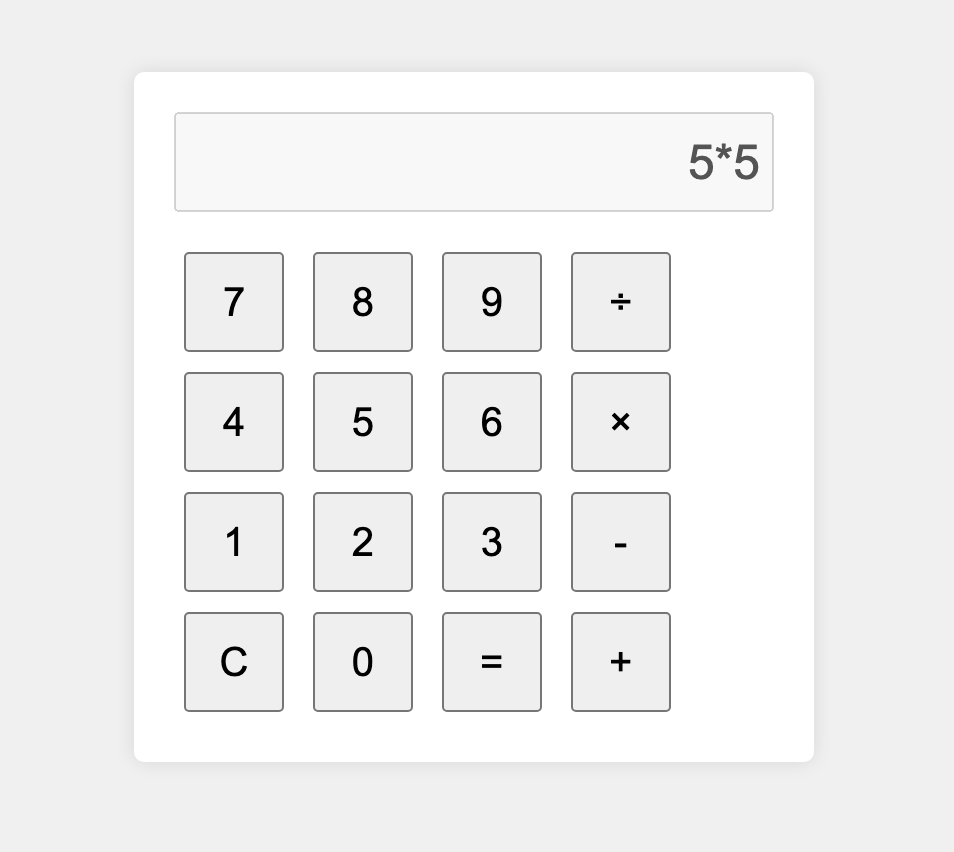
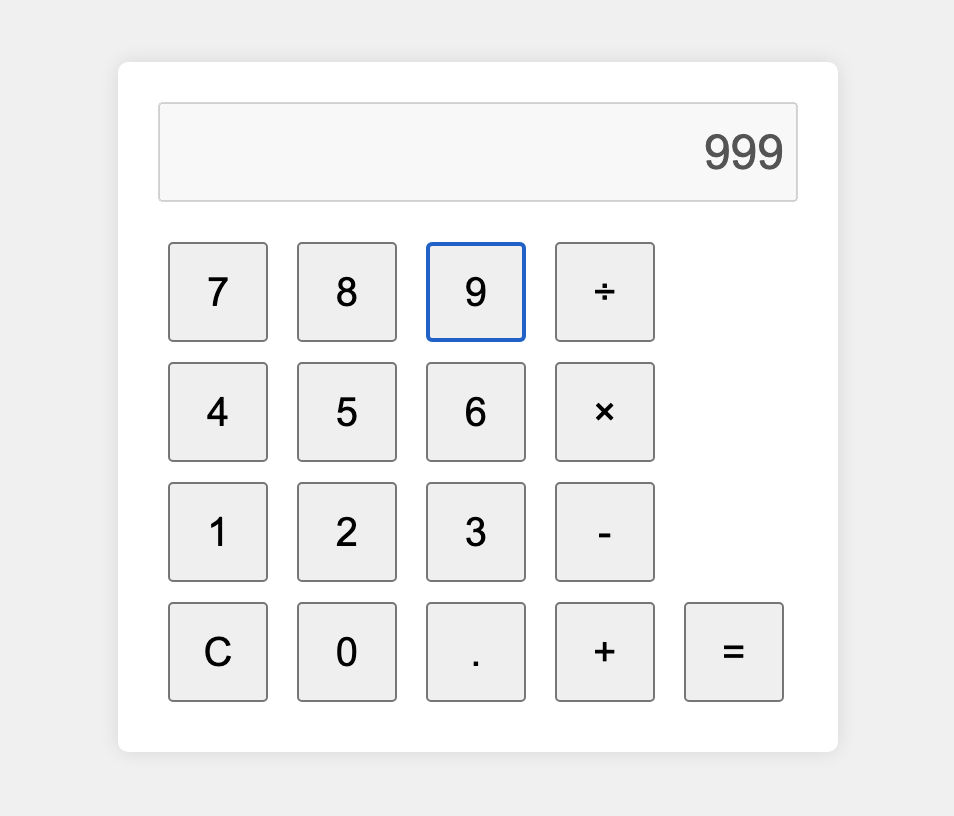
Add files via upload

diff --git a/calculator/index.html b/calculator/index.html
@@ -11,7 +11,7 @@
     }
 
     .calculator {
-        width: 300px;
+        width: 320px;
         margin: 50px auto;
         background-color: #fff;
         border-radius: 5px;
@@ -58,8 +58,9 @@
         <br>
         <input type="button" value="C" onclick="clearDisplay()">
         <input type="button" value="0" onclick="addToDisplay('0')">
-        <input type="button" value="=" onclick="calculate()">
+        <input type="button" value="." onclick="addToDisplay('.')">
         <input type="button" value="+" onclick="addToDisplay('+')">
+        <input type="button" value="=" onclick="calculate()">
     </div>
 
     <script>
@@ -84,7 +85,7 @@
             const key = event.key;
             if (key >= '0' && key <= '9') {
                 addToDisplay(key);
-            } else if (key === '+' || key === '-' || key === '*' || key === '/') {
+            } else if (key === '+' || key === '-' || key === '*' || key === '/' || key === '.') {
                 addToDisplay(key);
             } else if (key === 'Enter' || key === '=') {
                 calculate();
